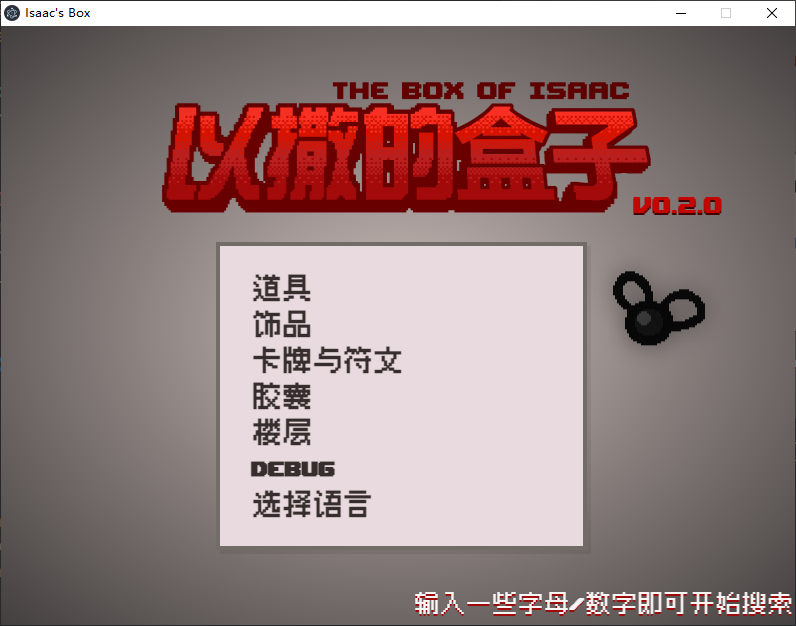
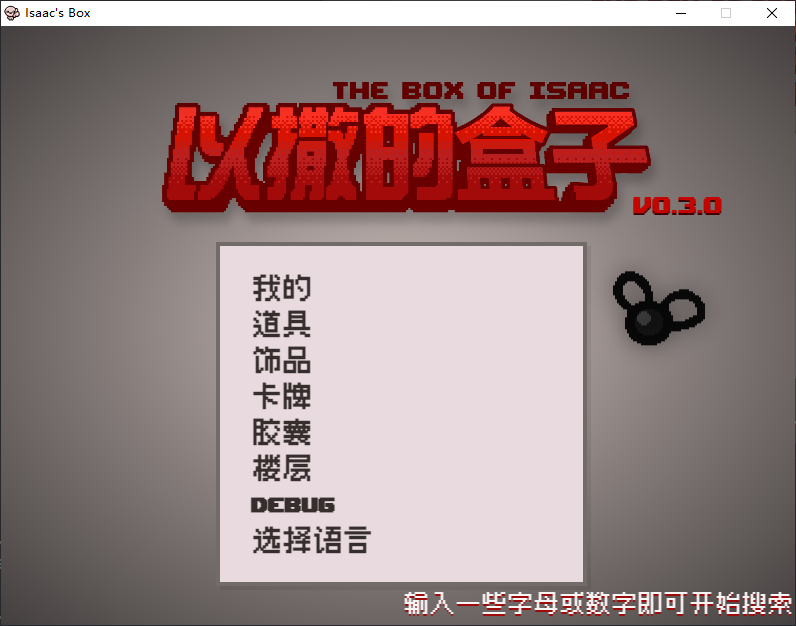
更新0.3.0文档

diff --git a/README.md b/README.md
@@ -10,6 +10,7 @@
 6. 新游戏/继续游戏后 看到屏幕顶部的IsaacBox + 版本 即可开始正常使用。
 
 ![./doc/main.png](./doc/main.png "主画面")
+![./doc/main.png](./doc/m_en.png "英文版主画面")
 ![./doc/c.png](./doc/c.png "道具")
 ![./doc/t.png](./doc/t.png "饰品")
 ![./doc/k.png](./doc/k.png "卡牌与符文")
@@ -20,6 +21,7 @@
 ![./doc/search.png](./doc/search.png "全局搜索")
 
 ## 目前已有功能
++ 显示与移除身上的道具
 + 道具生成/给予
 + 饰品生成/给予
 + 卡牌/符文 生成/给予
@@ -27,7 +29,7 @@
 + 全局搜索
 + debug开关
 + 楼层
-+ 八国语言
++ 八国语言支持(简中,英,德,法,俄,日,韩,西班牙)
 
 
 ## 遇到问题
@@ -42,11 +44,8 @@
 + npm run start:生成静态网页并运行electron 模拟真实使用环境 调试WebSocket用这个
 + npm run make:打包生成用户可以一键运行的安装包
 ## 待开发功能
-+ 拥有道具的界面，可以移除道具
-+ 部分语言未开发完毕
++ 目前仅支持中英双语的全局搜索,并且拼音缩写搜索目前只支持卡牌和符文与胶囊
 
-## 特别感谢
-(不区分先后顺序)
 
 [LanbingIce](https://github.com/LanbingIce)
 
